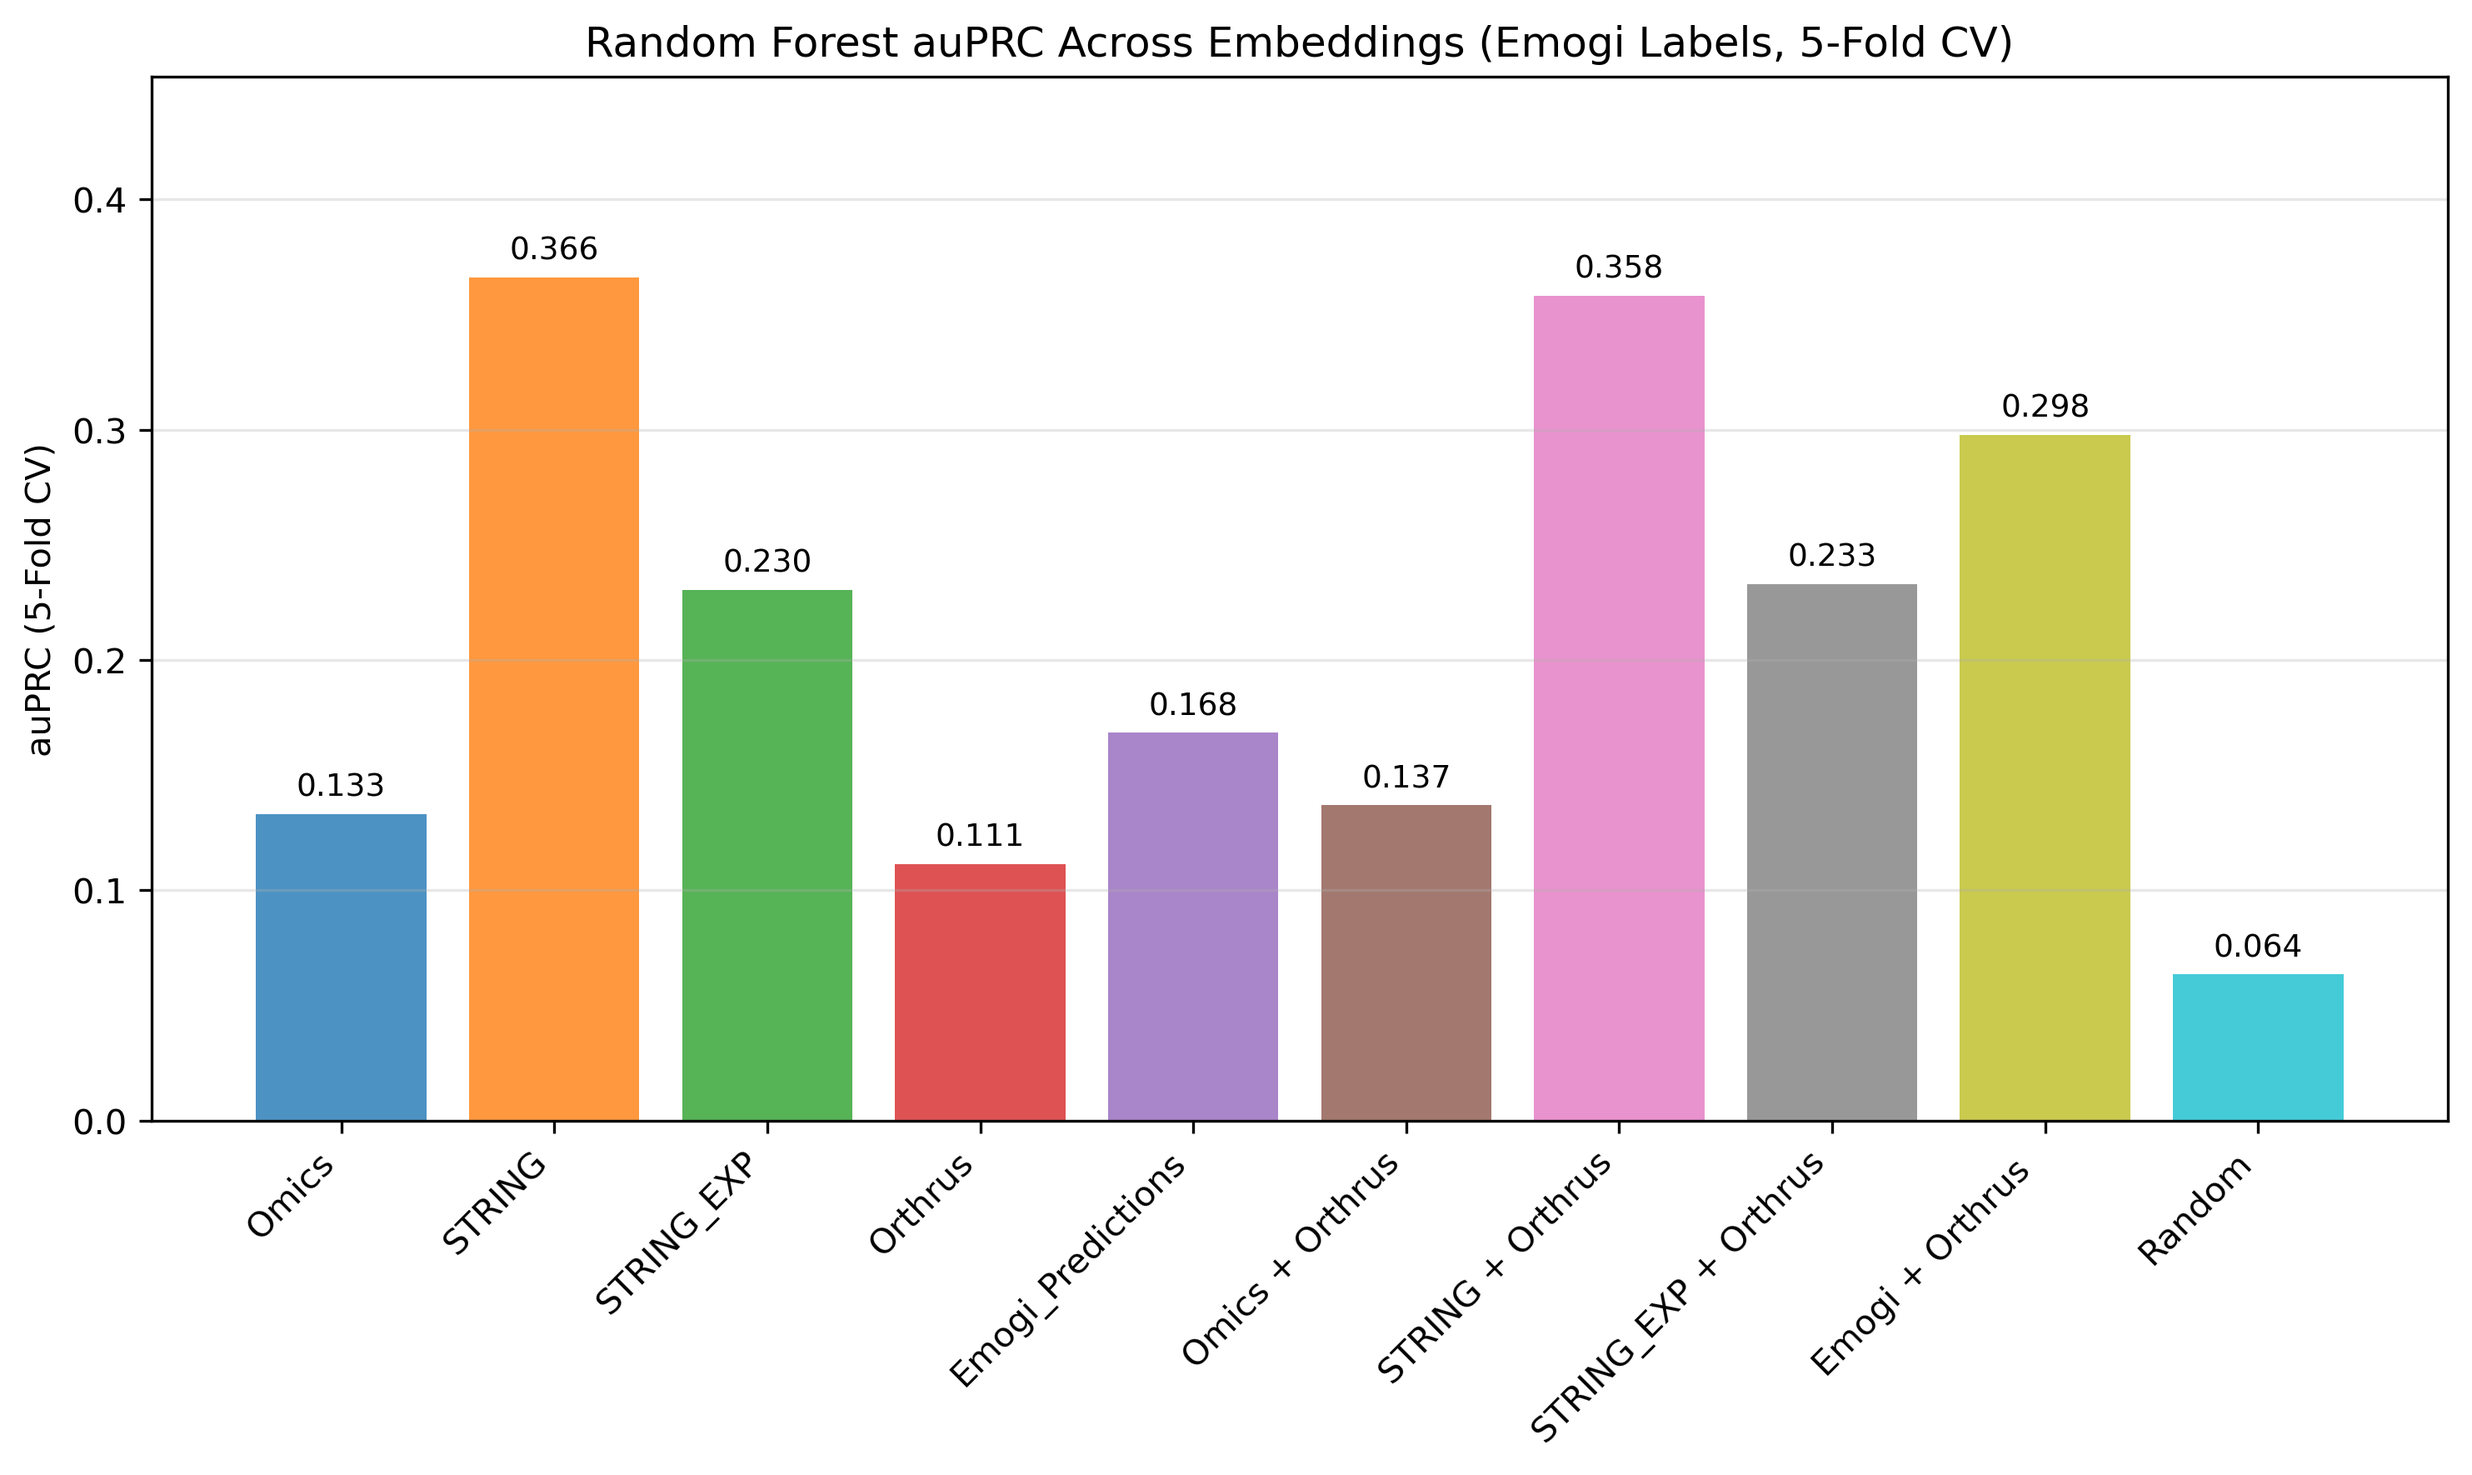
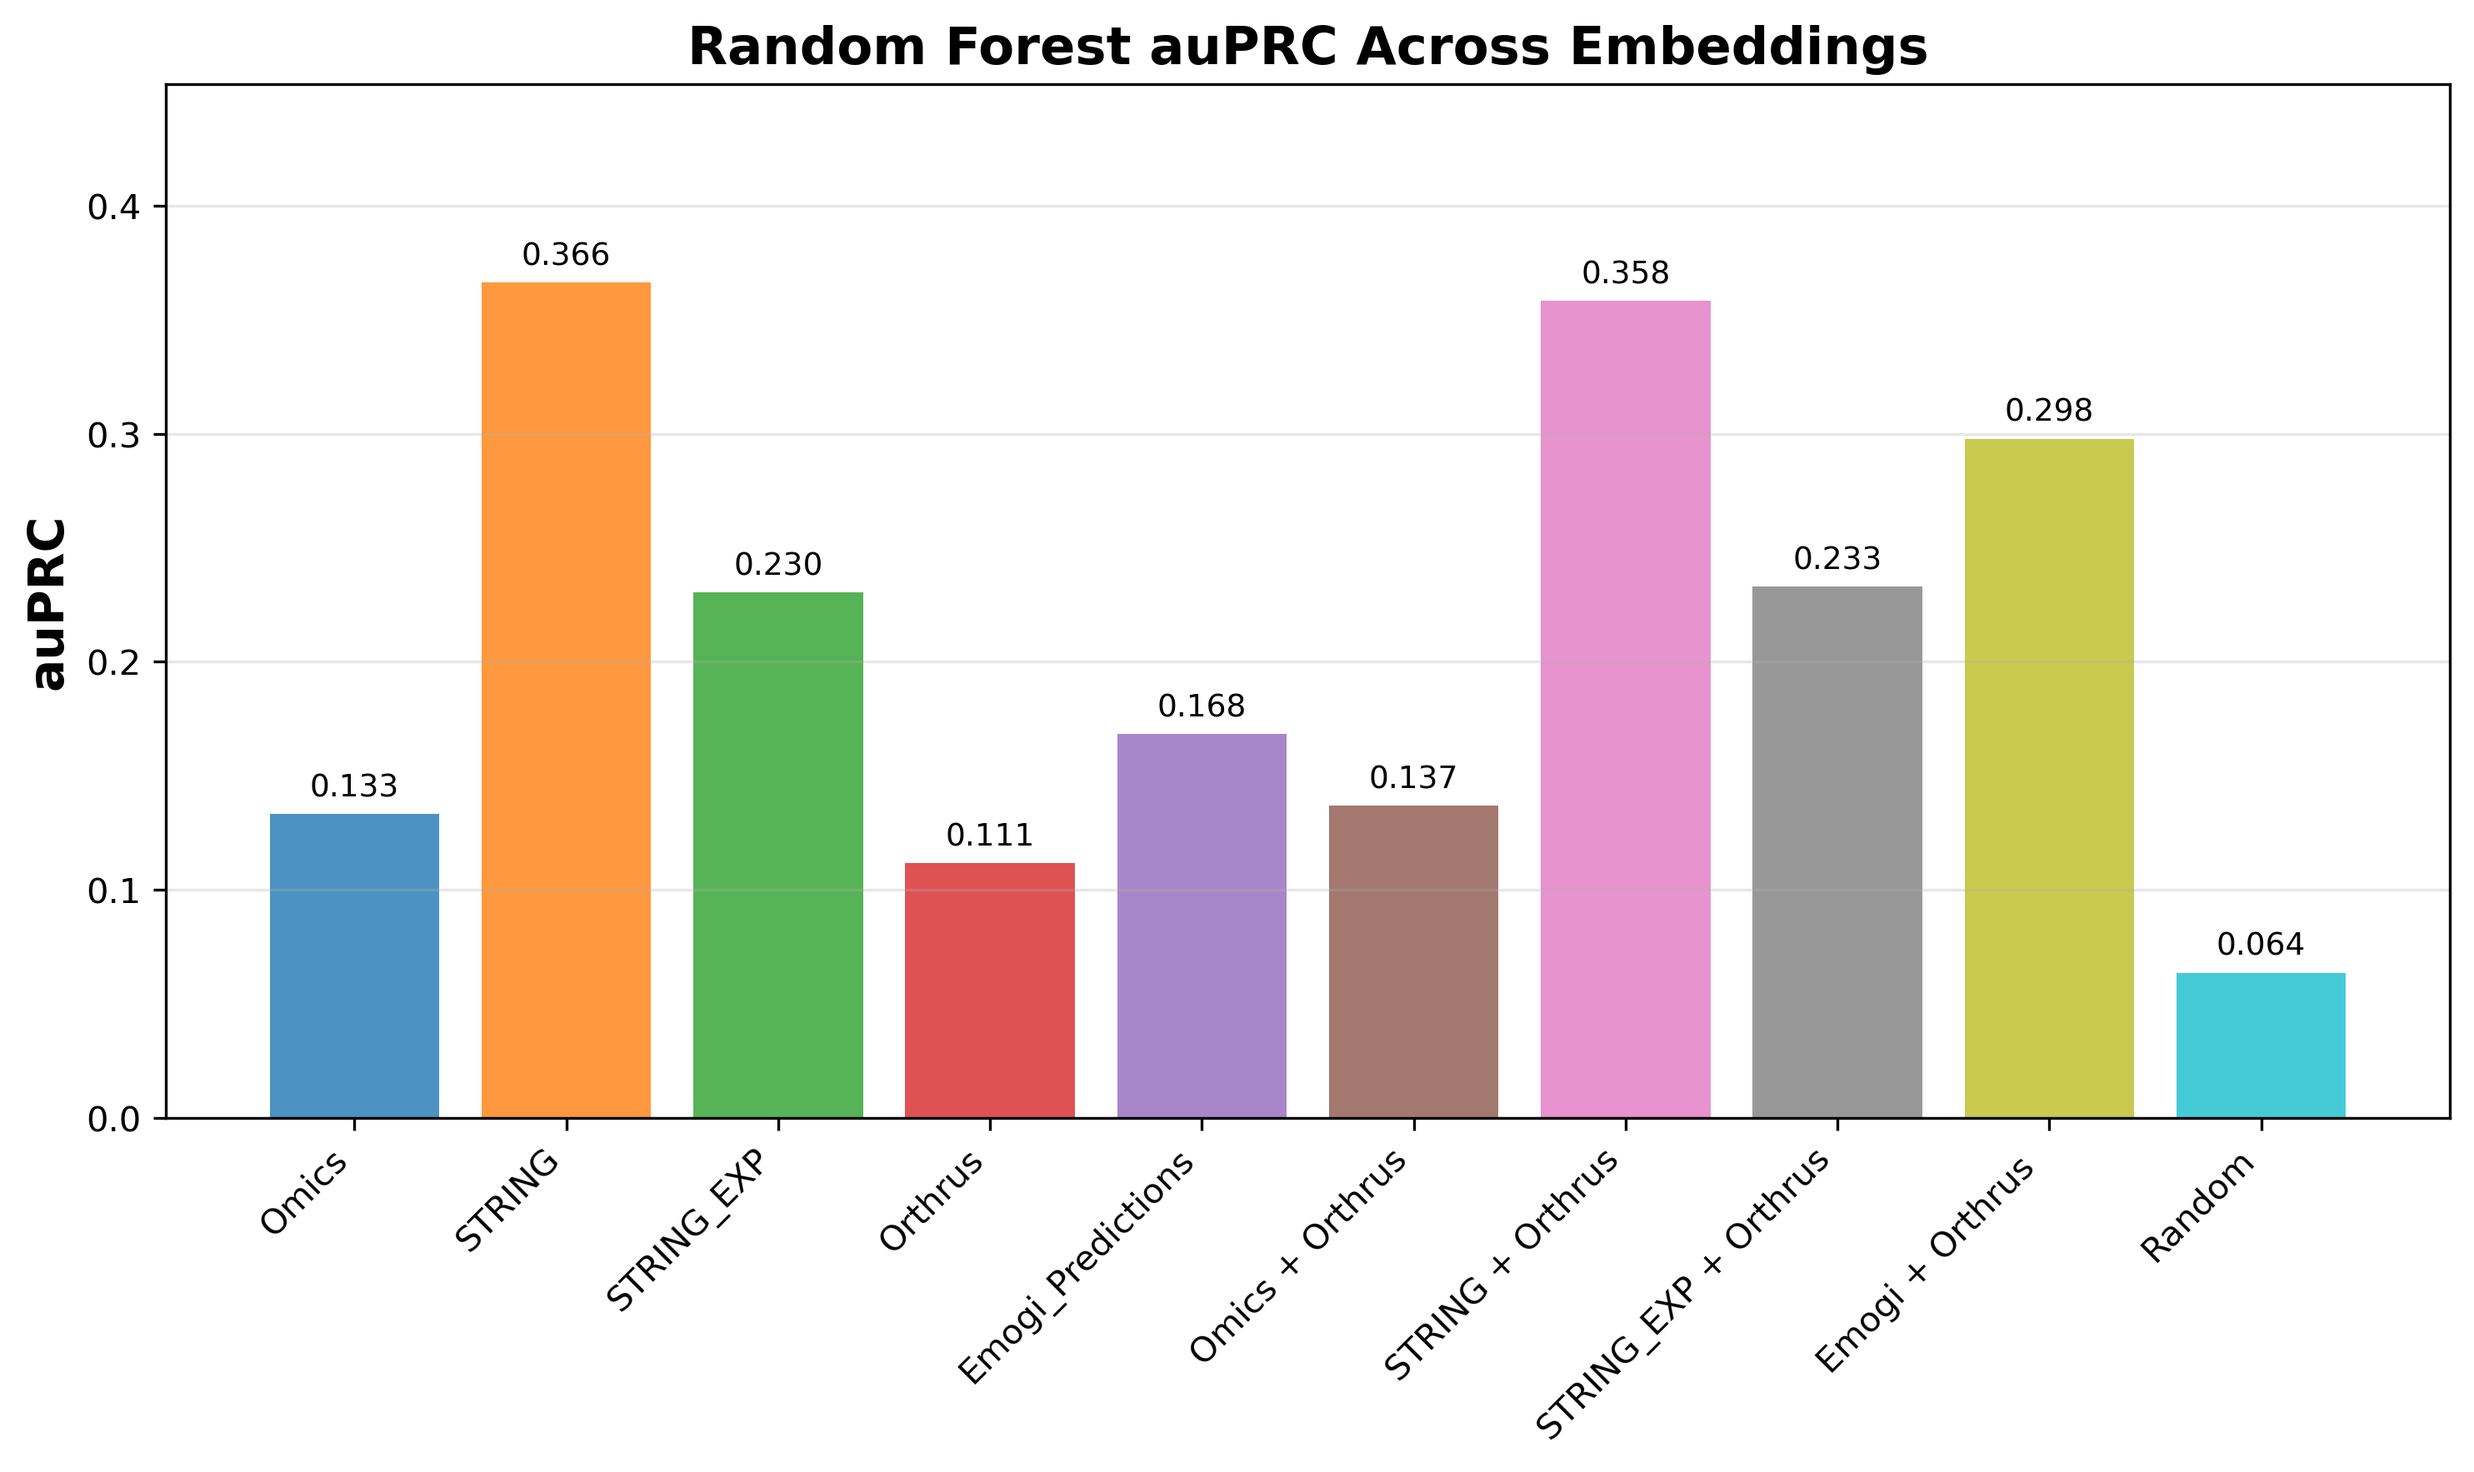
update plots

diff --git a/Cancer Predictions/common_helper_functions.py b/Cancer Predictions/common_helper_functions.py
@@ -470,8 +470,8 @@ def compare_embeddings_auprc_barplots(embedding_datasets, emogi_data, save_plots
                 ax.text(bar.get_x() + bar.get_width()/2, h + 0.005, 
                        f"{h:.3f}", ha='center', va='bottom', fontsize=9)
 
-        ax.set_ylabel('auPRC (5-Fold CV)')
-        ax.set_title(f'{model} auPRC Across Embeddings (Emogi Labels, 5-Fold CV)')
+        ax.set_ylabel('auPRC', fontsize=14, weight="bold")
+        ax.set_title(f'{model} auPRC Across Embeddings', fontsize=15, weight="bold")
         ax.set_xticklabels(sub.index, rotation=45, ha='right')
         ymax = (sub['auPRC'] + sub['auPRC_std']).max() if (sub['auPRC'] + sub['auPRC_std']).notna().any() else 0
         ax.set_ylim(0, min(1.0, ymax + 0.05))
